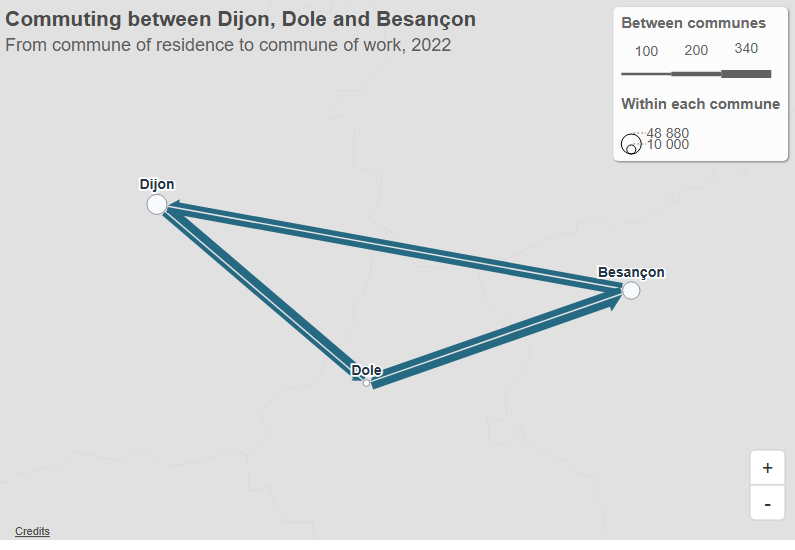
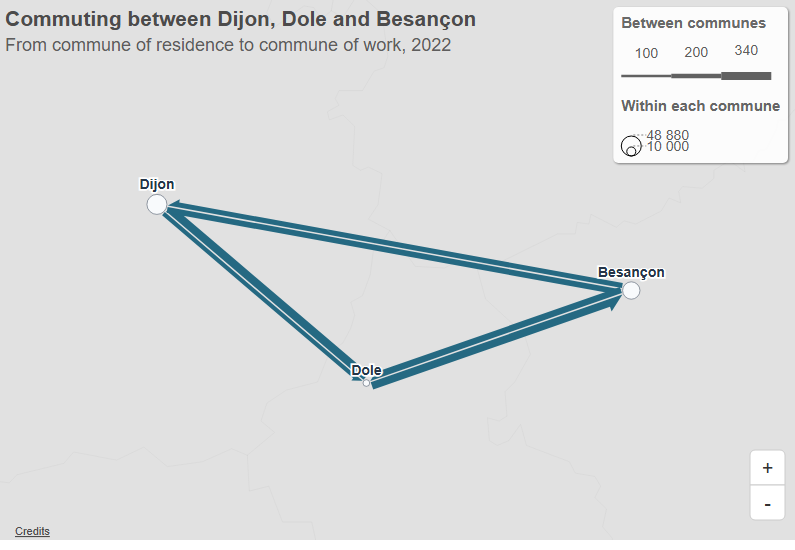
Separate commuting flow legend titles from their values
Refs #183

Changed region(s): [[0.7849, 0.0618, 0.9962, 0.3091]]

diff --git a/examples/flow/commuting-corridors.html b/examples/flow/commuting-corridors.html
@@ -87,7 +87,7 @@
                 })
                 .legend({
                     position: 'top right',
-                    flowWidthLegend: { title: 'Between towns', values: [500, 2500, 4500] },
+                    flowWidthLegend: { title: 'Between towns', titlePadding: 40, values: [500, 2500, 4500] },
                     nodeSizeLegend: { title: 'Within each town', values: [45000, 10000] },
                     flowColorLegend: {
                         title: 'Corridor type',

diff --git a/examples/flow/commuting-corridors-insee.html b/examples/flow/commuting-corridors-insee.html
@@ -91,7 +91,7 @@
                     position: 'top right',
                     flowWidthLegend: {
                         title: 'Between communes',
-                        titlePadding: 38,
+                        titlePadding: 40,
                         values: flowValues,
                         labels: flowValues.map((n) => counts.format(n)),
                     },
